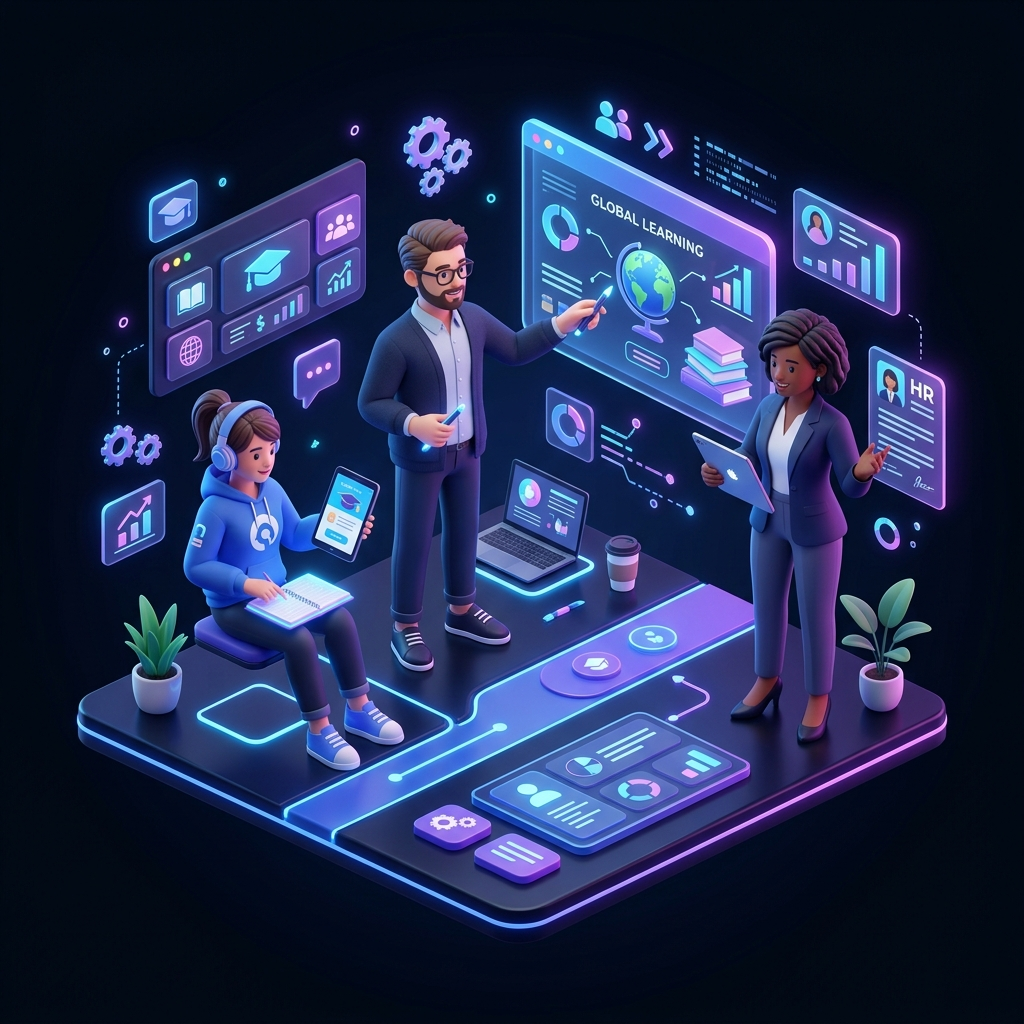
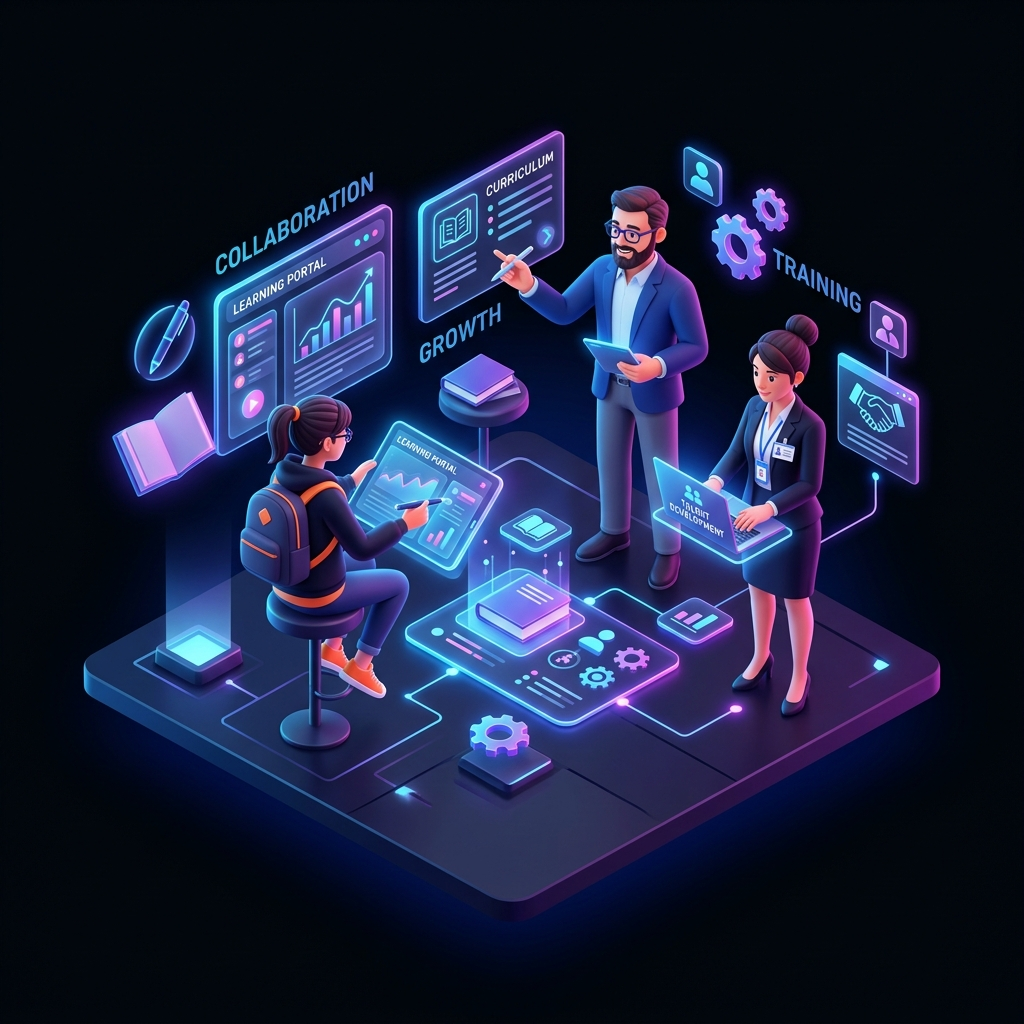
feat: landing page illustrations and signin layout fix

diff --git a/src/pages/LandingPage.jsx b/src/pages/LandingPage.jsx
@@ -20,10 +20,10 @@ const LandingPage = ({ onStartApp, onVerify, user }) => {
     }, []);
 
     const features = [
-        { icon: 'pi pi-bolt', title: 'Smart Assessments', desc: 'Create AI-powered quizzes with proctoring and automated scoring to validate knowledge before certification.', color: '#F59E0B', bg: '#FEF3C7' },
-        { icon: 'pi pi-verified', title: 'Value-Driven Rewards', desc: 'Instantly recognize top performers with professional, verified certificates that hold real career value.', color: '#A855F7', bg: '#F3E8FF' },
-        { icon: 'pi pi-shield', title: 'Bank-Grade Security', desc: 'Anti-cheating proctoring and encrypted verification ensuring your credentials remain prestigious.', color: '#2563EB', bg: '#DBEAFE' },
-        { icon: 'pi pi-sync', title: 'Unified Workflow', desc: 'Directly import quiz results into our design studio to generate thousands of certificates in one click.', color: '#059669', bg: '#D1FAE5' },
+        { img: '/ai_about.png', title: 'Smart Assessments', desc: 'Create AI-powered quizzes with proctoring and automated scoring to validate knowledge before certification.', color: '#F59E0B' },
+        { img: '/trust_about.png', title: 'Value-Driven Rewards', desc: 'Instantly recognize top performers with professional, verified certificates that hold real career value.', color: '#A855F7' },
+        { img: '/security_about.png', title: 'Bank-Grade Security', desc: 'Anti-cheating proctoring and encrypted verification ensuring your credentials remain prestigious.', color: '#2563EB' },
+        { img: '/design_about.png', title: 'Unified Workflow', desc: 'Directly import quiz results into our design studio to generate thousands of certificates in one click.', color: '#059669' },
     ];
 
     const enterpriseFeatures = [
@@ -76,6 +76,19 @@ const LandingPage = ({ onStartApp, onVerify, user }) => {
                 @media (max-width: 375px) {
                     nav { padding: 0 8px !important; }
                 }
+                .feature-card {
+                    background: var(--bg-card);
+                    border: 1px solid var(--border);
+                    border-radius: 32px;
+                    padding: 32px;
+                    transition: all 0.3s ease;
+                    text-align: center;
+                }
+                .feature-card:hover {
+                    border-color: var(--accent);
+                    transform: translateY(-8px);
+                    box-shadow: 0 20px 40px rgba(59, 130, 246, 0.08);
+                }
             `}</style>
 
             {/* ═══ FEATURES ═══ */}
@@ -92,14 +105,14 @@ const LandingPage = ({ onStartApp, onVerify, user }) => {
                     </p>
                 </div>
 
-                <div style={{ display: 'grid', gridTemplateColumns: 'repeat(auto-fit, minmax(280px, 1fr))', gap: 24 }}>
+                <div style={{ display: 'grid', gridTemplateColumns: 'repeat(auto-fit, minmax(260px, 1fr))', gap: 24 }}>
                     {features.map((f, i) => (
-                        <div key={i} className="card-premium" data-aos="fade-up" data-aos-delay={i * 100} style={{ cursor: 'default', background: 'var(--bg-card)', border: '1px solid var(--border)', boxShadow: 'var(--shadow-card)' }}>
-                            <div className="stat-icon" style={{ background: 'rgba(255,255,255,0.05)', color: f.color, marginBottom: 20 }}>
-                                <i className={f.icon}></i>
+                        <div key={i} className="feature-card" data-aos="fade-up" data-aos-delay={i * 100}>
+                            <div style={{ marginBottom: 24, height: 180, display: 'flex', alignItems: 'center', justifyContent: 'center' }}>
+                                <img src={f.img} alt={f.title} style={{ maxWidth: '100%', maxHeight: '100%', objectFit: 'contain' }} />
                             </div>
-                            <h3 style={{ fontSize: '1.25rem', fontWeight: 800, marginBottom: 10, fontFamily: 'Outfit', color: 'var(--text)' }}>{f.title}</h3>
-                            <p style={{ color: 'var(--text-secondary)', fontSize: '0.92rem', lineHeight: 1.7 }}>{f.desc}</p>
+                            <h3 style={{ fontSize: '1.25rem', fontWeight: 800, marginBottom: 12, fontFamily: 'Outfit', color: 'var(--text)' }}>{f.title}</h3>
+                            <p style={{ color: 'var(--text-secondary)', fontSize: '0.9rem', lineHeight: 1.6 }}>{f.desc}</p>
                         </div>
                     ))}
                 </div>

diff --git a/src/pages/Signin.jsx b/src/pages/Signin.jsx
@@ -164,11 +164,11 @@ export default function Signin() {
           flex: 1.2; padding: 60px 48px; display: flex; flex-direction: column; justify-content: center;
         }
         .signin-illustration-container {
-          flex: 1; background: rgba(0, 0, 0, 0.2); border-left: 1px solid var(--border);
+          flex: 1; background: #02060c; border-left: 1px solid var(--border);
           display: flex; align-items: center; justify-content: center; padding: 40px; position: relative;
         }
         .signin-illustration {
-          width: 100%; height: auto; max-width: 440px; filter: drop-shadow(0 20px 40px rgba(0,0,0,0.4));
+          width: 100%; height: auto; max-width: 460px; filter: drop-shadow(0 20px 60px rgba(59, 130, 246, 0.15));
         }
         .mobile-illustration { display: none; }
         
@@ -177,7 +177,7 @@ export default function Signin() {
           .signin-illustration-container { display: none; }
           .signin-content { text-align: center; padding: 48px 24px; }
           .signin-content img { align-self: center !important; }
-          .mobile-illustration { display: flex; justify-content: center; padding: 0 40px 40px; }
+          .mobile-illustration { display: flex; justify-content: center; padding: 0 40px 40px; background: #02060c; }
           .mobile-illustration img { width: 100%; max-width: 320px; }
           .signin-tags { justify-content: center !important; }
           .signin-google { justify-content: center !important; }
